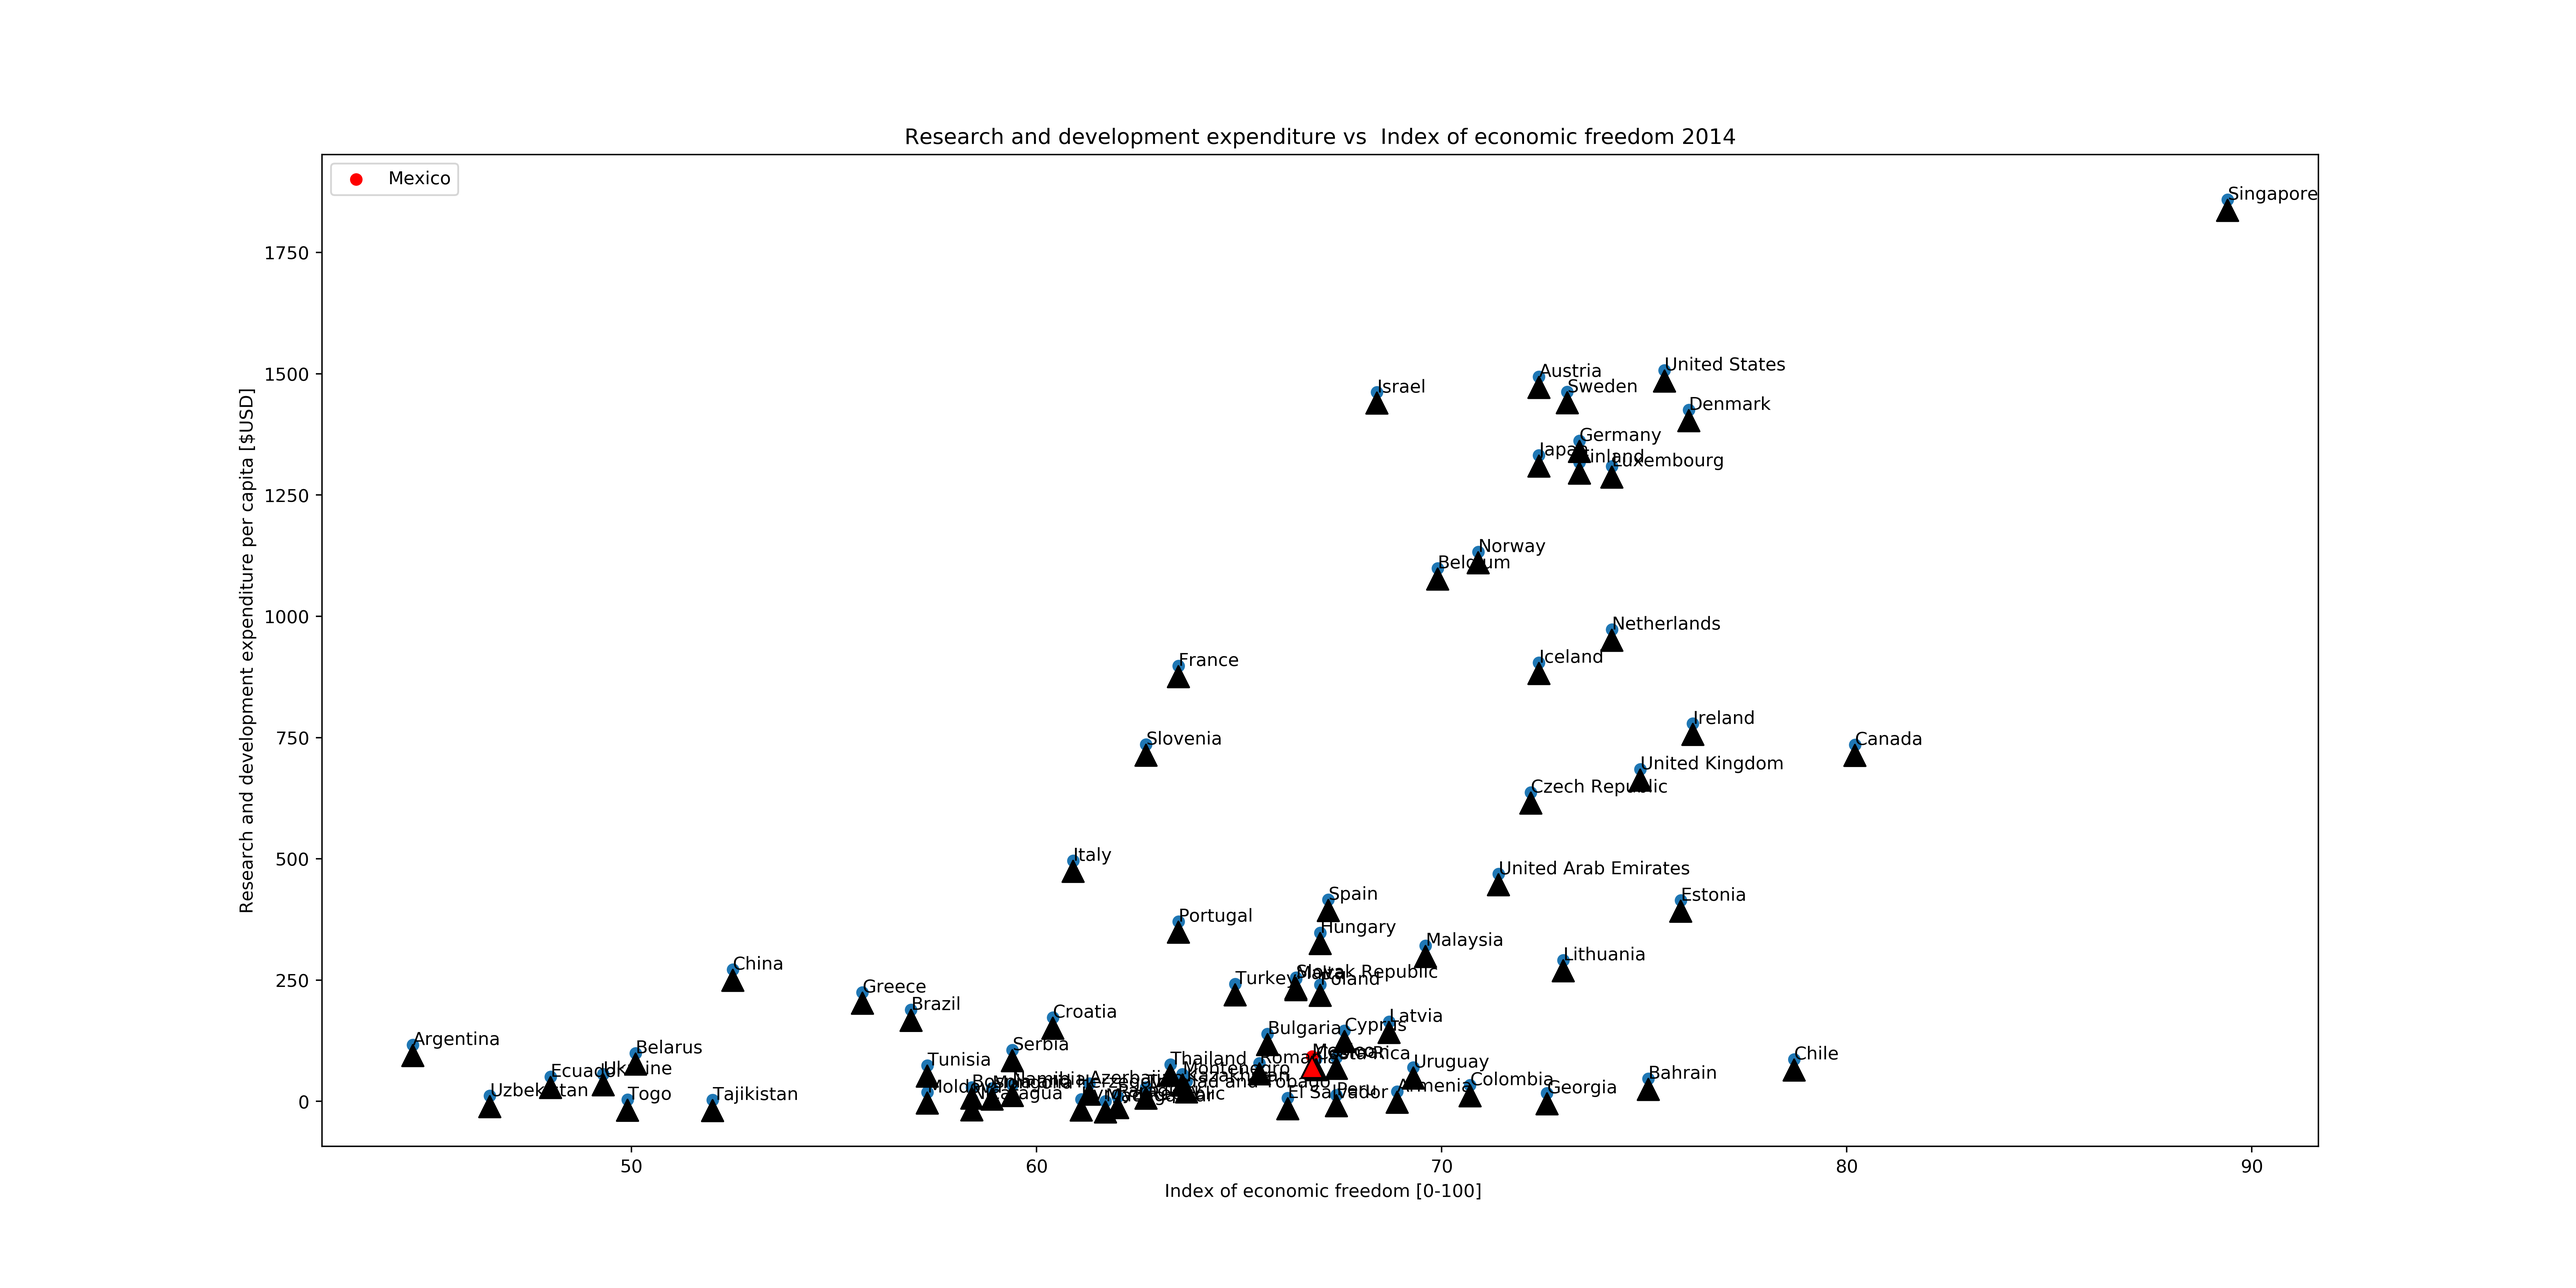
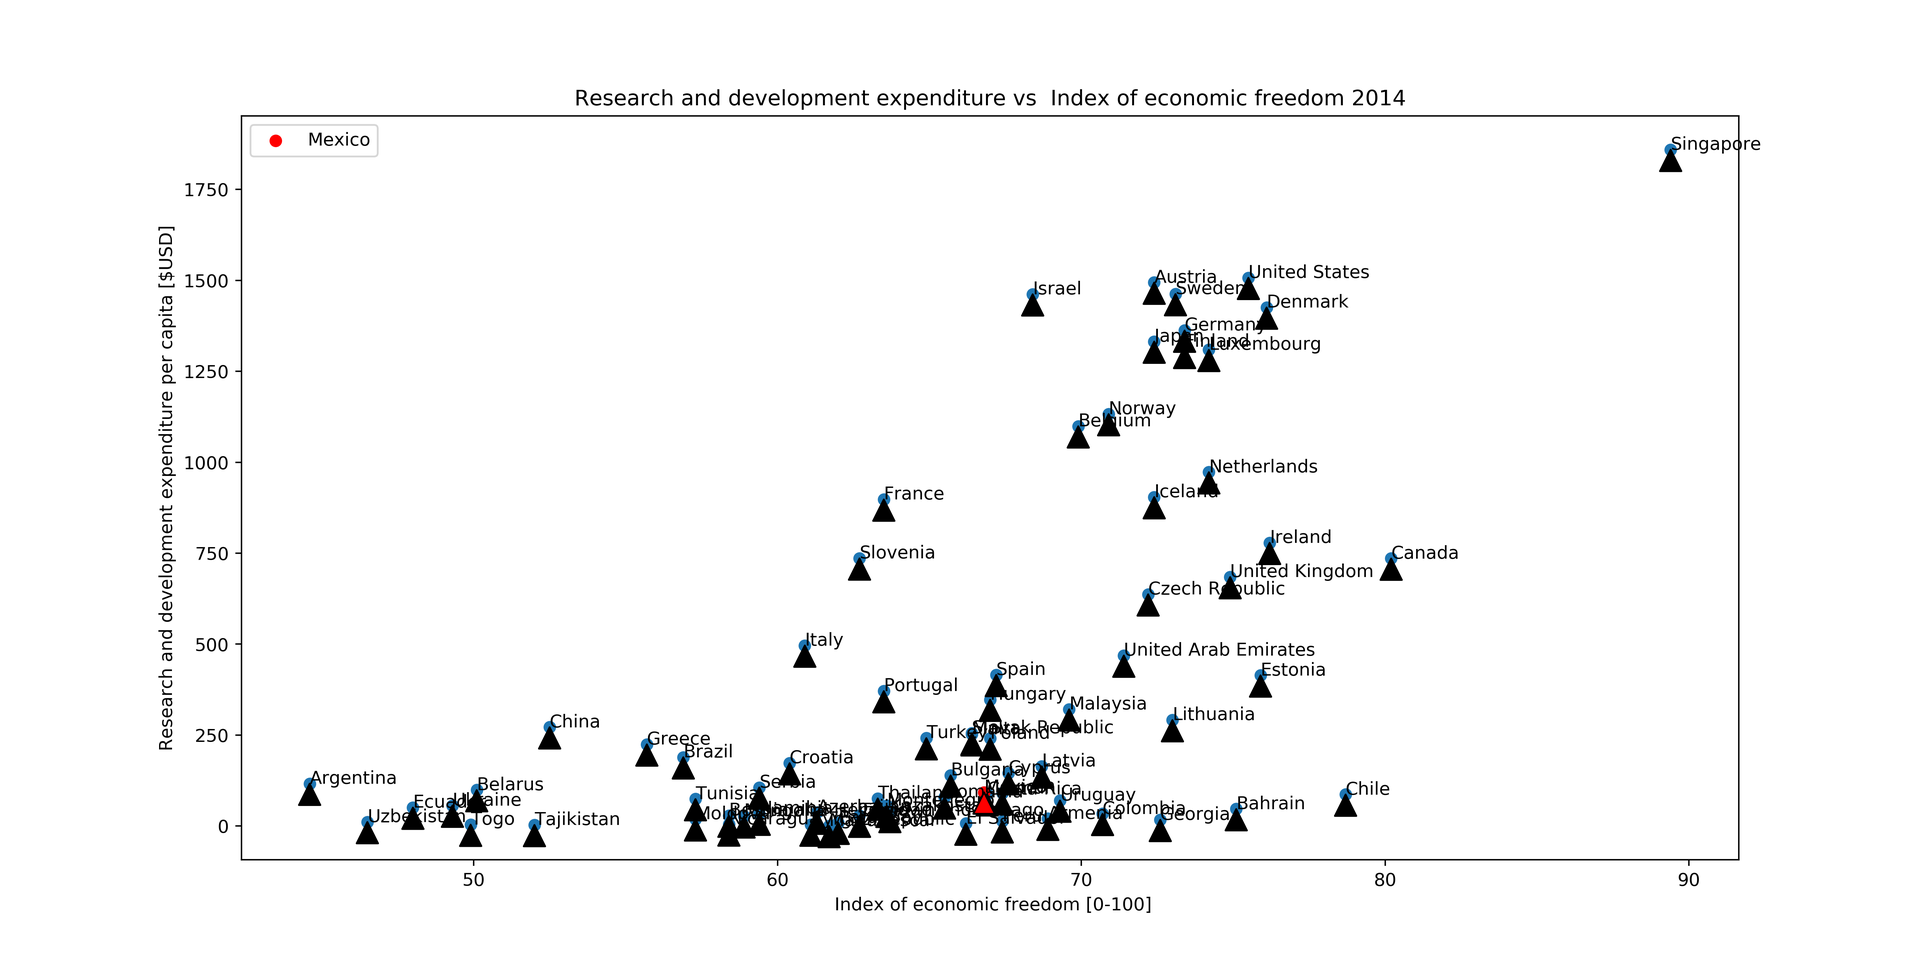
LE vs I+D

diff --git a/libertadEconomica.py b/libertadEconomica.py
@@ -68,7 +68,7 @@ paises=comparaPorNombre(paisesIMasDLimpios(iMasD),
       paisesPIBPerCapitaLimpios(PIB))
 
 #Gráfica.
-fig=plt.figure(figsize=(20,10))
+fig=plt.figure(figsize=(15,7.5))
 ax = fig.add_subplot(111)
 plt.scatter(paises[2],paises[1])
 #Etiqueta los puntos con los nombres su respectivo país.
@@ -89,3 +89,27 @@ plt.title('Research and development expenditure '+
 plt.xlabel(' Index of economic freedom [0-100]')
 plt.ylabel('Research and development expenditure per capita [$USD]')
 plt.savefig('i+d',dpi=400)
+
+
+#Gráfica HD.
+fig=plt.figure(figsize=(40,20))
+ax = fig.add_subplot(111)
+plt.scatter(paises[2],paises[1])
+#Etiqueta los puntos con los nombres su respectivo país.
+for i in range(len(paises[0])):
+    ax.annotate(paises[0][i], xy=(paises[2][i],paises[1][i]),
+                xytext=(paises[2][i],paises[1][i]),
+                arrowprops=dict(facecolor='black'),
+                )
+#Etiqueta a México.
+plt.scatter(paises[2][42],paises[1][42],color='red',label='Mexico')
+ax.annotate(paises[0][42], xy=(paises[2][42],paises[1][42]),
+            xytext=(paises[2][42],paises[1][42]),
+            arrowprops=dict(facecolor='red'),
+            )
+plt.legend(loc=2)
+plt.title('Research and development expenditure '+
+          'vs  Index of economic freedom 2014')
+plt.xlabel(' Index of economic freedom [0-100]')
+plt.ylabel('Research and development expenditure per capita [$USD]')
+plt.savefig('i+dHD',dpi=400)
